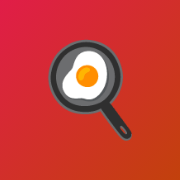
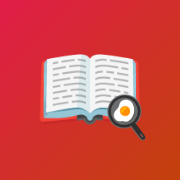
앱 이름을 '요리 대백과'로 바꾸고 소개글·아이콘·공유 썸네일 교체
- 앱 제목: 엽쌤의 혼밥 스쿨 → 📖 요리 대백과 (탭 제목, 홈 화면 앱 이름, 공유 제목,
  활동지 바닥글, 백업 안내 문구까지)
- 소개글 '실과 교과에 나오는 모든 요리와 자취생·혼밥러를 위한 마법의 레시피'를
  검색창 위와 설명·공유 미리보기 문구에 반영
- 앱 아이콘을 책(📖)+프라이팬(🍳) 그림으로 교체
- 공유 링크 썸네일(og-image.jpg)을 새 이름·소개글로 다시 만들고,
  메신저가 예전 그림을 계속 보여 주지 않도록 주소에 ?v=2 를 붙임
- 백업 파일 형식(app: honbap-school)은 그대로 두어 예전 백업도 불러올 수 있음
- 서비스 워커 캐시 v17

Claude-Session: https://claude.ai/code/session_01X7fpmf58J7wV778domuBoT

Changed region(s): [[0.2222, 0.1944, 0.8056, 0.8056]]

diff --git a/index.html b/index.html
@@ -3,31 +3,31 @@
 <head>
     <meta charset="UTF-8">
     <meta name="viewport" content="width=device-width, initial-scale=1.0">
-    <title>엽쌤의 혼밥 스쿨</title>
+    <title>요리 대백과</title>
     <meta property="og:url" content="https://gmlduqzhd123-lab.github.io/cooking-/">
-    <meta property="og:image" content="https://gmlduqzhd123-lab.github.io/cooking-/og-image.jpg">
-    <meta property="og:image:secure_url" content="https://gmlduqzhd123-lab.github.io/cooking-/og-image.jpg">
+    <meta property="og:image" content="https://gmlduqzhd123-lab.github.io/cooking-/og-image.jpg?v=2">
+    <meta property="og:image:secure_url" content="https://gmlduqzhd123-lab.github.io/cooking-/og-image.jpg?v=2">
     <meta property="og:image:type" content="image/jpeg">
     <meta property="og:image:width" content="1200">
     <meta property="og:image:height" content="630">
-    <meta property="og:image:alt" content="엽쌤의 혼밥 스쿨">
-    <meta name="twitter:image" content="https://gmlduqzhd123-lab.github.io/cooking-/og-image.jpg">
-    <meta name="description" content="자취생·혼밥러를 위한 초간단 레시피 200선. 재료, 조리 순서, 유튜브 영상까지 한 번에.">
+    <meta property="og:image:alt" content="요리 대백과 - 실과 교과에 나오는 모든 요리와 자취생·혼밥러를 위한 마법의 레시피">
+    <meta name="twitter:image" content="https://gmlduqzhd123-lab.github.io/cooking-/og-image.jpg?v=2">
+    <meta name="description" content="실과 교과에 나오는 모든 요리와 자취생·혼밥러를 위한 마법의 레시피. 레시피 200선, 재료 검색, 단계별 요리 모드, 유튜브 영상까지 한 번에.">
     <meta name="theme-color" content="#F8FAFC">
 
     <!-- 카카오톡·SNS 링크 미리보기 -->
     <meta property="og:type" content="website">
     <meta property="og:locale" content="ko_KR">
-    <meta property="og:site_name" content="엽쌤의 혼밥 스쿨">
-    <meta property="og:title" content="엽쌤의 혼밥 스쿨 - 초간단 혼밥 레시피 200선">
-    <meta property="og:description" content="냉장고 속 재료로 뚝딱! 재료 검색, 단계별 요리 모드, 유튜브 영상까지 한 번에.">
+    <meta property="og:site_name" content="요리 대백과">
+    <meta property="og:title" content="요리 대백과 - 실과 요리부터 자취·혼밥 레시피까지 200선">
+    <meta property="og:description" content="실과 교과에 나오는 모든 요리와 자취생·혼밥러를 위한 마법의 레시피. 재료 검색, 단계별 요리 모드, 유튜브 영상까지 한 번에.">
     <meta name="twitter:card" content="summary_large_image">
 
     <!-- 홈 화면에 추가 (PWA) -->
     <link rel="manifest" href="manifest.webmanifest">
     <link rel="icon" href="icons/icon-192.png" type="image/png">
     <link rel="apple-touch-icon" href="icons/apple-touch-icon.png">
-    <meta name="apple-mobile-web-app-title" content="혼밥스쿨">
+    <meta name="apple-mobile-web-app-title" content="요리 대백과">
     <meta name="mobile-web-app-capable" content="yes">
 
     <link rel="stylesheet" as="style" crossorigin href="https://cdn.jsdelivr.net/gh/orioncactus/pretendard@v1.3.9/dist/web/static/pretendard.min.css" />
@@ -192,6 +192,18 @@
         .install-btn[hidden] { display: none; }
 
         /* 검색창 */
+        .app-intro {
+            max-width: 1200px;
+            margin: 16px auto 0 auto;
+            padding: 0 20px;
+            text-align: center;
+            color: var(--text-muted);
+            font-size: 0.95rem;
+            font-weight: 600;
+            line-height: 1.5;
+            word-break: keep-all;
+        }
+        .app-intro span { display: inline-block; }
         .search-box {
             position: relative;
             max-width: 1200px;
@@ -1151,7 +1163,7 @@
     <a class="skip-link" href="#list-heading">레시피 목록으로 바로가기</a>
 
     <header>
-        <h1>🍳 엽쌤의 혼밥 스쿨</h1>
+        <h1>📖 요리 대백과</h1>
         <div class="header-actions">
             <button type="button" class="icon-btn install-btn" id="install-btn" hidden>📲 앱 설치</button>
             <button type="button" class="icon-btn" id="shopping-btn" aria-label="장보기 목록"><span aria-hidden="true">🛒</span><span class="fav-count" id="shopping-count" aria-hidden="true" hidden>0</span></button>
@@ -1161,6 +1173,7 @@
     </header>
 
     <main id="main">
+    <p class="app-intro"><span>실과 교과에 나오는 모든 요리와</span> <span>자취생·혼밥러를 위한 마법의 레시피</span></p>
     <form class="search-box" id="search-form" role="search">
         <label for="search-input" class="sr-only">메뉴나 재료로 레시피 검색</label>
         <span class="search-icon" aria-hidden="true">🔍</span>
@@ -3084,7 +3097,7 @@
             if (navigator.share) {
                 try {
                     await navigator.share({
-                        title: `${recipe.title} | 엽쌤의 혼밥 스쿨`,
+                        title: `${recipe.title} | 요리 대백과`,
                         text: `${recipe.title} 만들어 봐요! 재료: ${recipe.ingredients.join(', ')}`,
                         url
                     });
@@ -3727,10 +3740,10 @@
             try {
                 backup = JSON.parse(text);
             } catch (e) {
-                throw new Error('백업 파일을 읽을 수 없어요. 혼밥 스쿨에서 저장한 .json 파일인지 확인해 주세요.');
+                throw new Error('백업 파일을 읽을 수 없어요. 요리 대백과에서 저장한 .json 파일인지 확인해 주세요.');
             }
             if (!backup || backup.app !== BACKUP_APP || typeOf(backup.data) !== 'object') {
-                throw new Error('혼밥 스쿨 백업 파일이 아니에요.');
+                throw new Error('요리 대백과 백업 파일이 아니에요.');
             }
             if (backup.version > BACKUP_VERSION) {
                 throw new Error('더 새로운 버전에서 만든 백업이에요. 페이지를 새로고침한 뒤 다시 시도해 주세요.');
@@ -3809,7 +3822,7 @@
             preview.hidden = true;
             if (!file) return;
             if (file.size > MAX_BACKUP_BYTES) {
-                error.textContent = '파일이 너무 커요. 혼밥 스쿨 백업 파일인지 확인해 주세요.';
+                error.textContent = '파일이 너무 커요. 요리 대백과 백업 파일인지 확인해 주세요.';
                 return;
             }
             try {
@@ -4002,7 +4015,7 @@
                             <p style="margin:4px 0 0 0">다음에 바꿔 볼 점</p>${line}
                         </div>
                     </div>
-                    <p class="ws-foot">엽쌤의 혼밥 스쿨 · ${escapeHtml(location.origin + location.pathname)}</p>
+                    <p class="ws-foot">요리 대백과 · ${escapeHtml(location.origin + location.pathname)}</p>
                 </div>`;
         }
 

diff --git a/sw.js b/sw.js
@@ -1,6 +1,6 @@
-// 엽쌤의 혼밥 스쿨 서비스 워커: 한 번 열어 본 뒤에는 인터넷이 없어도 레시피를 볼 수 있게 한다.
+// 요리 대백과 서비스 워커: 한 번 열어 본 뒤에는 인터넷이 없어도 레시피를 볼 수 있게 한다.
 // index.html이나 아이콘을 바꾸면 CACHE_VERSION을 올려야 예전 캐시가 정리된다.
-const CACHE_VERSION = 'honbap-v16';
+const CACHE_VERSION = 'honbap-v17';
 const APP_SHELL = [
     './',
     './index.html',
